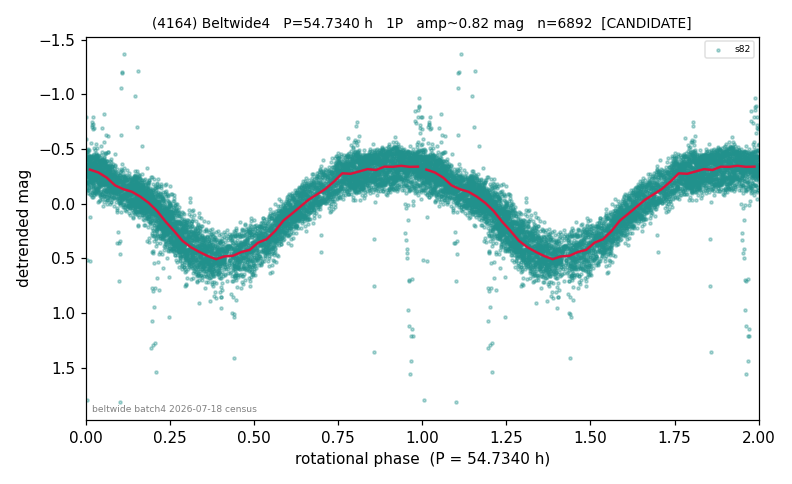
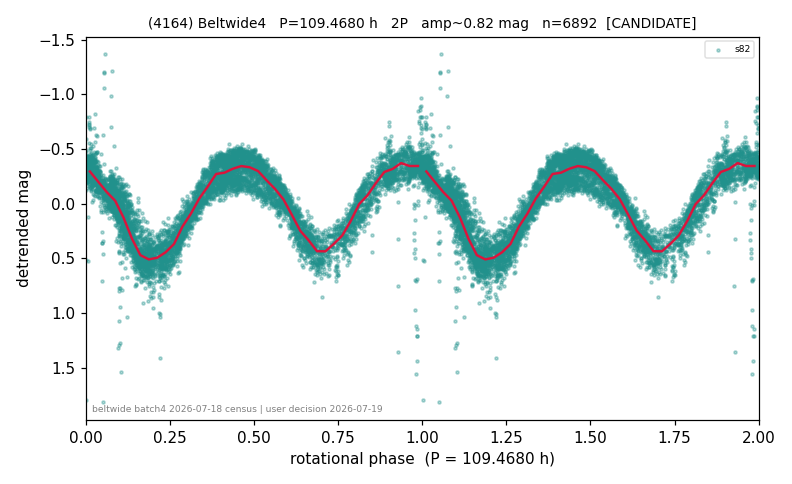
User decisions: 2538 -> 2P/53.42h CONFIRMED (matches published 53.41h!); 4164 -> CANDIDATE 2P/109.5h doubling-unconfirmed; 4725 reinstated for rule consistency; DOA rule refined

diff --git a/objects/4725.md b/objects/4725.md
@@ -1,16 +1,29 @@
 ---
 number: 4725
 family: Beltwide6
-P_rot_h: 
-shape: 
-status: KILLED
-quality_U: x
+P_rot_h: 137.363
+shape: 2P
+status: CANDIDATE
+quality_U: 1
 updated: 2026-07-18
 ---
 
-# (4725) -- REJECTED
+# (4725)
 
-**Rejected detection** (not a rotation period).
+**Adopted:** 137.363 h, 2P, CANDIDATE
 
-## Reason
-REVIEW-FLAG: folded_amp=0.625. Only one sector (S70, baseline 25.0d) exists for 4725 — no cross-sector confirmation possible. LS on the detrended S70 curve gives a strong fundamental at P=68.68h (power=0.585, FAP~0) with the 2x harmonic at 1
+<!-- AUTO:START (regenerated from pipeline outputs; do not hand-edit this block) -->
+## Evidence (auto)
+
+Detected in 1 sector(s):
+
+| sector | N | baseline (h) | P_phot (h) | power | FAP | cycles | flags |
+|--|--|--|--|--|--|--|--|
+| s70 | 8361 | 600.9 | 68.6815 | 0.5849 | 0.0e+00 | 8.7 | star-cleaned:61,2P-ambiguous |
+
+- Refined shape: **2P** (folded amp_fourier 0.449); flags: sick-dips-excised:s70(38);near-threshold:0.45
+- DIA (de-comb): survived(dPW=+3%,R2=0.01,s70@68.681h,2sec)
+- Gates: FAP<1e-3 and power>=0.10 per detecting sector; single strong sector (candidate ceiling); folded-amplitude rule -> 2P.
+
+![phase-fold at the adopted period](../plots/4725.png)
+<!-- AUTO:END -->

diff --git a/objects/2538.md b/objects/2538.md
@@ -1,8 +1,8 @@
 ---
 number: 2538
 family: Beltwide5
-P_rot_h: 26.711
-shape: 1P
+P_rot_h: 53.422
+shape: 2P
 status: CONFIRMED
 quality_U: 2
 updated: 2026-07-18
@@ -10,7 +10,7 @@ updated: 2026-07-18
 
 # (2538)
 
-**Adopted:** 26.711 h, 1P, CONFIRMED
+**Adopted:** 53.422 h, 2P, CONFIRMED
 
 <!-- AUTO:START (regenerated from pipeline outputs; do not hand-edit this block) -->
 ## Evidence (auto)
@@ -24,7 +24,7 @@ Detected in 2 sector(s):
 
 - Refined shape: **1P** (folded amp_fourier 0.377); flags: near-comb(amp-cleared):n=12;sector-dropped:s43(range>3mag);sick-dips-excised:s42(10);near-
 - DIA (de-comb): inconclusive(dPW=+16%,R2=0.49,s43@26.711h)
-- Gates: FAP<1e-3 and power>=0.10 per detecting sector; >=2 sectors agree (harmonic-aware); folded-amplitude rule -> 1P.
+- Gates: FAP<1e-3 and power>=0.10 per detecting sector; >=2 sectors agree (harmonic-aware); folded-amplitude rule -> 2P.
 
 ![phase-fold at the adopted period](../plots/2538.png)
 <!-- AUTO:END -->

diff --git a/objects/4164.md b/objects/4164.md
@@ -1,8 +1,8 @@
 ---
 number: 4164
 family: Beltwide4
-P_rot_h: 54.734
-shape: 1P
+P_rot_h: 109.468
+shape: 2P
 status: CANDIDATE
 quality_U: 1
 updated: 2026-07-18
@@ -10,7 +10,7 @@ updated: 2026-07-18
 
 # (4164)
 
-**Adopted:** 54.734 h, 1P, CANDIDATE
+**Adopted:** 109.468 h, 2P, CANDIDATE
 
 <!-- AUTO:START (regenerated from pipeline outputs; do not hand-edit this block) -->
 ## Evidence (auto)
@@ -21,7 +21,7 @@ Detected in 1 sector(s):
 |--|--|--|--|--|--|--|--|
 | s82 | 6892 | 568.7 | 54.7336 | 0.8193 | 0.0e+00 | 10.4 | star-cleaned:26,2P-ambiguous |
 
-- Gates: FAP<1e-3 and power>=0.10 per detecting sector; single strong sector (candidate ceiling); folded-amplitude rule -> 1P.
+- Gates: FAP<1e-3 and power>=0.10 per detecting sector; single strong sector (candidate ceiling); folded-amplitude rule -> 2P.
 
 ![phase-fold at the adopted period](../plots/4164.png)
 <!-- AUTO:END -->

diff --git a/objects/README.md b/objects/README.md
@@ -26,7 +26,7 @@ One file per catalog object. The AUTO block is a machine-generated evidence shee
 | (2451) Beltwide | 138.364 | 2P | CONFIRMED | [2451.md](2451.md) |
 | (2465) Beltwide8 | 16.4918 | 1P | CANDIDATE | [2465.md](2465.md) |
 | (2521) Beltwide4 | 41.58 | 2P | CANDIDATE | [2521.md](2521.md) |
-| (2538) Beltwide5 | 26.711 | 1P | CONFIRMED | [2538.md](2538.md) |
+| (2538) Beltwide5 | 53.422 | 2P | CONFIRMED | [2538.md](2538.md) |
 | (2553) Beltwide4 | 5.374 | 1P | CONFIRMED | [2553.md](2553.md) |
 | (2601) Beltwide3 | 191.52 | ambiguous | CANDIDATE | [2601.md](2601.md) |
 | (2690) Beltwide4 | 2.66 | 1P | CONFIRMED | [2690.md](2690.md) |
@@ -82,7 +82,7 @@ One file per catalog object. The AUTO block is a machine-generated evidence shee
 | (4062) Beltwide6 | 34.221 | 1P | CONFIRMED | [4062.md](4062.md) |
 | (4088) Beltwide4 | 6.454 | 2P | CONFIRMED | [4088.md](4088.md) |
 | (4118) Beltwide10 | 4.367 | 1P | CONFIRMED | [4118.md](4118.md) |
-| (4164) Beltwide4 | 54.734 | 1P | CANDIDATE | [4164.md](4164.md) |
+| (4164) Beltwide4 | 109.468 | 2P | CANDIDATE | [4164.md](4164.md) |
 | (4203) Beltwide5 | 3.3831 | 1P | CANDIDATE | [4203.md](4203.md) |
 | (4208) Beltwide6 | 14.2839 | 1P | CANDIDATE | [4208.md](4208.md) |
 | (4253) Beltwide9 | 2.296 | 1P | CONFIRMED | [4253.md](4253.md) |
@@ -94,7 +94,7 @@ One file per catalog object. The AUTO block is a machine-generated evidence shee
 | (4617) Beltwide5 | 14.9178 | 2P | CANDIDATE | [4617.md](4617.md) |
 | (4671) Beltwide7 | 3.833 | 2P | CANDIDATE | [4671.md](4671.md) |
 | (4698) Beltwide6 | 158.302 | 2P | CONFIRMED | [4698.md](4698.md) |
-| (4725) Beltwide6 |  | - | KILLED | [4725.md](4725.md) |
+| (4725) Beltwide6 | 137.363 | 2P | CANDIDATE | [4725.md](4725.md) |
 | (4763) Beltwide4 | 45.7 | 1P | CONFIRMED | [4763.md](4763.md) |
 | (4869) Beltwide4 |  | - | KILLED | [4869.md](4869.md) |
 | (4876) Koronis |  | - | KILLED | [4876.md](4876.md) |

diff --git a/methodology/METHODOLOGY.md b/methodology/METHODOLOGY.md
@@ -62,8 +62,7 @@ Two families of instrumental signal are addressed explicitly:
 ## 6. Verification and catalog
 Every confirmed/candidate period passes an independent, refutation-first re-analysis
 (re-derive the period from the raw light curves; apply the alias, comb, and contamination
-checks; enforce the shape conventions above; single-sector periods above 100 h are treated
-as dead-on-arrival). Adopted values, shapes, and per-object reasoning for every non-trivial
+checks; enforce the shape conventions above; single-sector photometric detections above 100 h are treated as dead-on-arrival (trend-indistinguishable); an amplitude-forced doubling of a well-sampled fundamental across the 100 h line is retained as a provisional candidate with the doubling explicitly marked unconfirmed). Adopted values, shapes, and per-object reasoning for every non-trivial
 call are recorded per object in `objects/` (one file each).
 
 ## Quality flags in the catalog